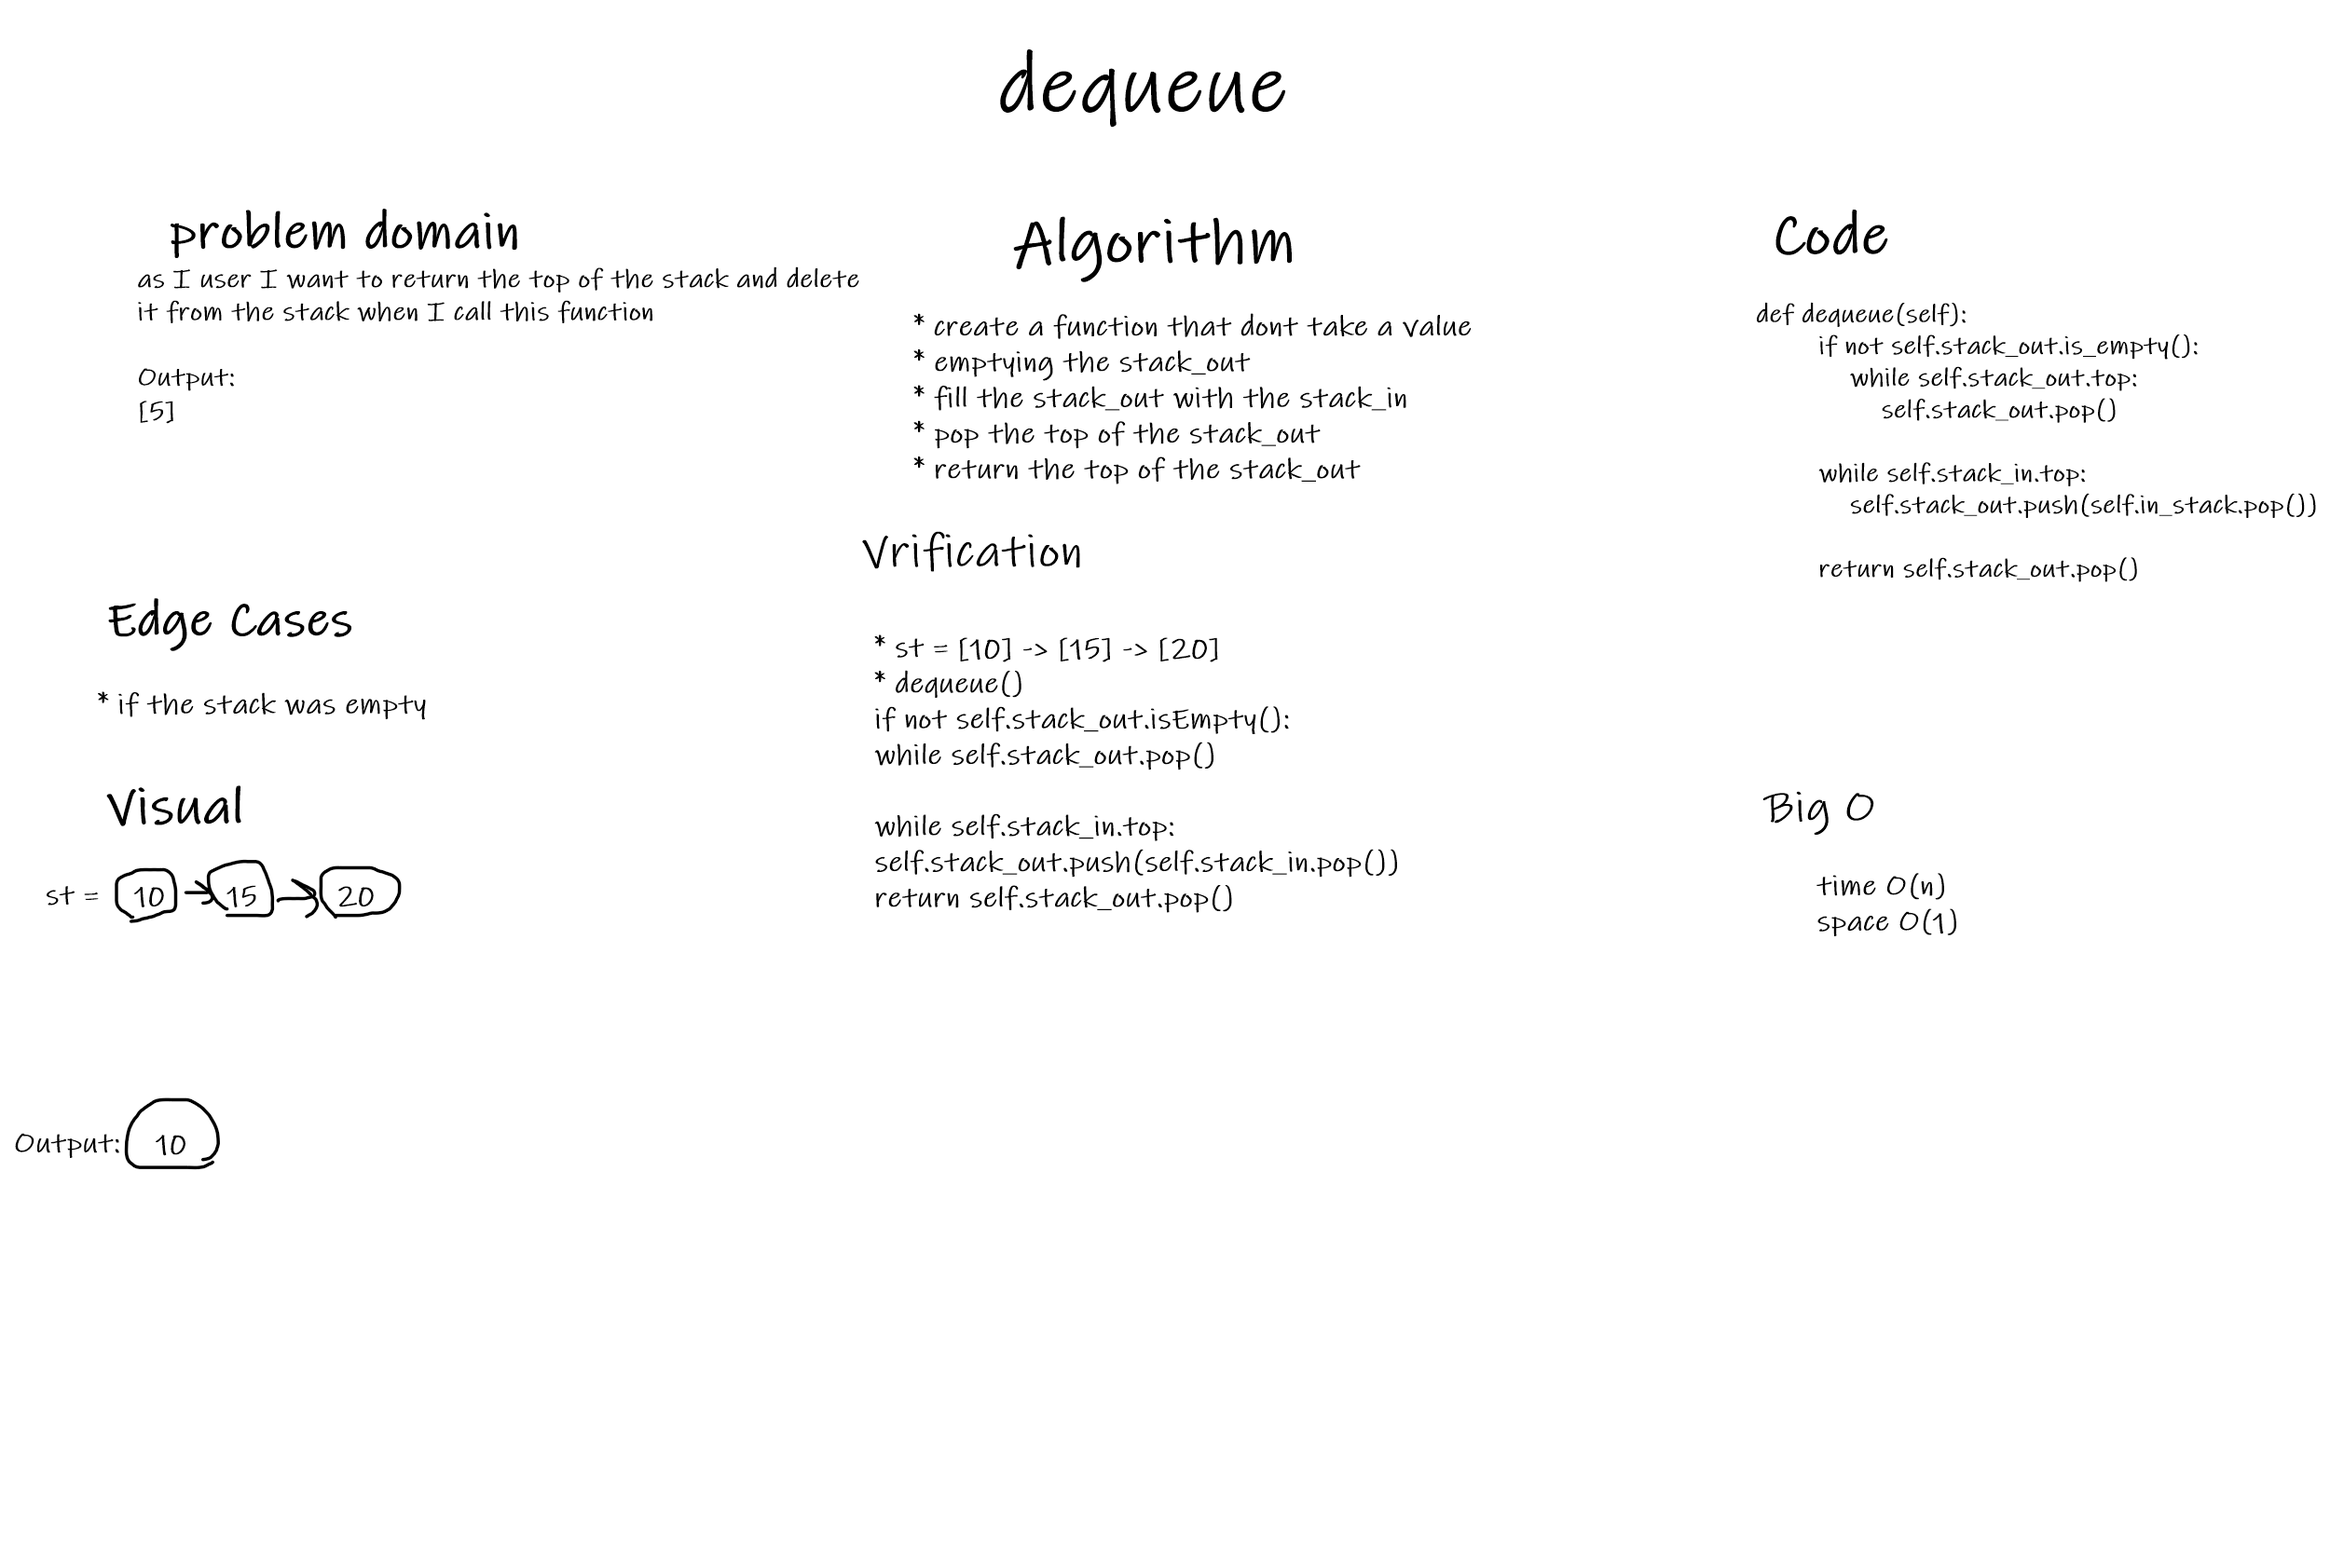
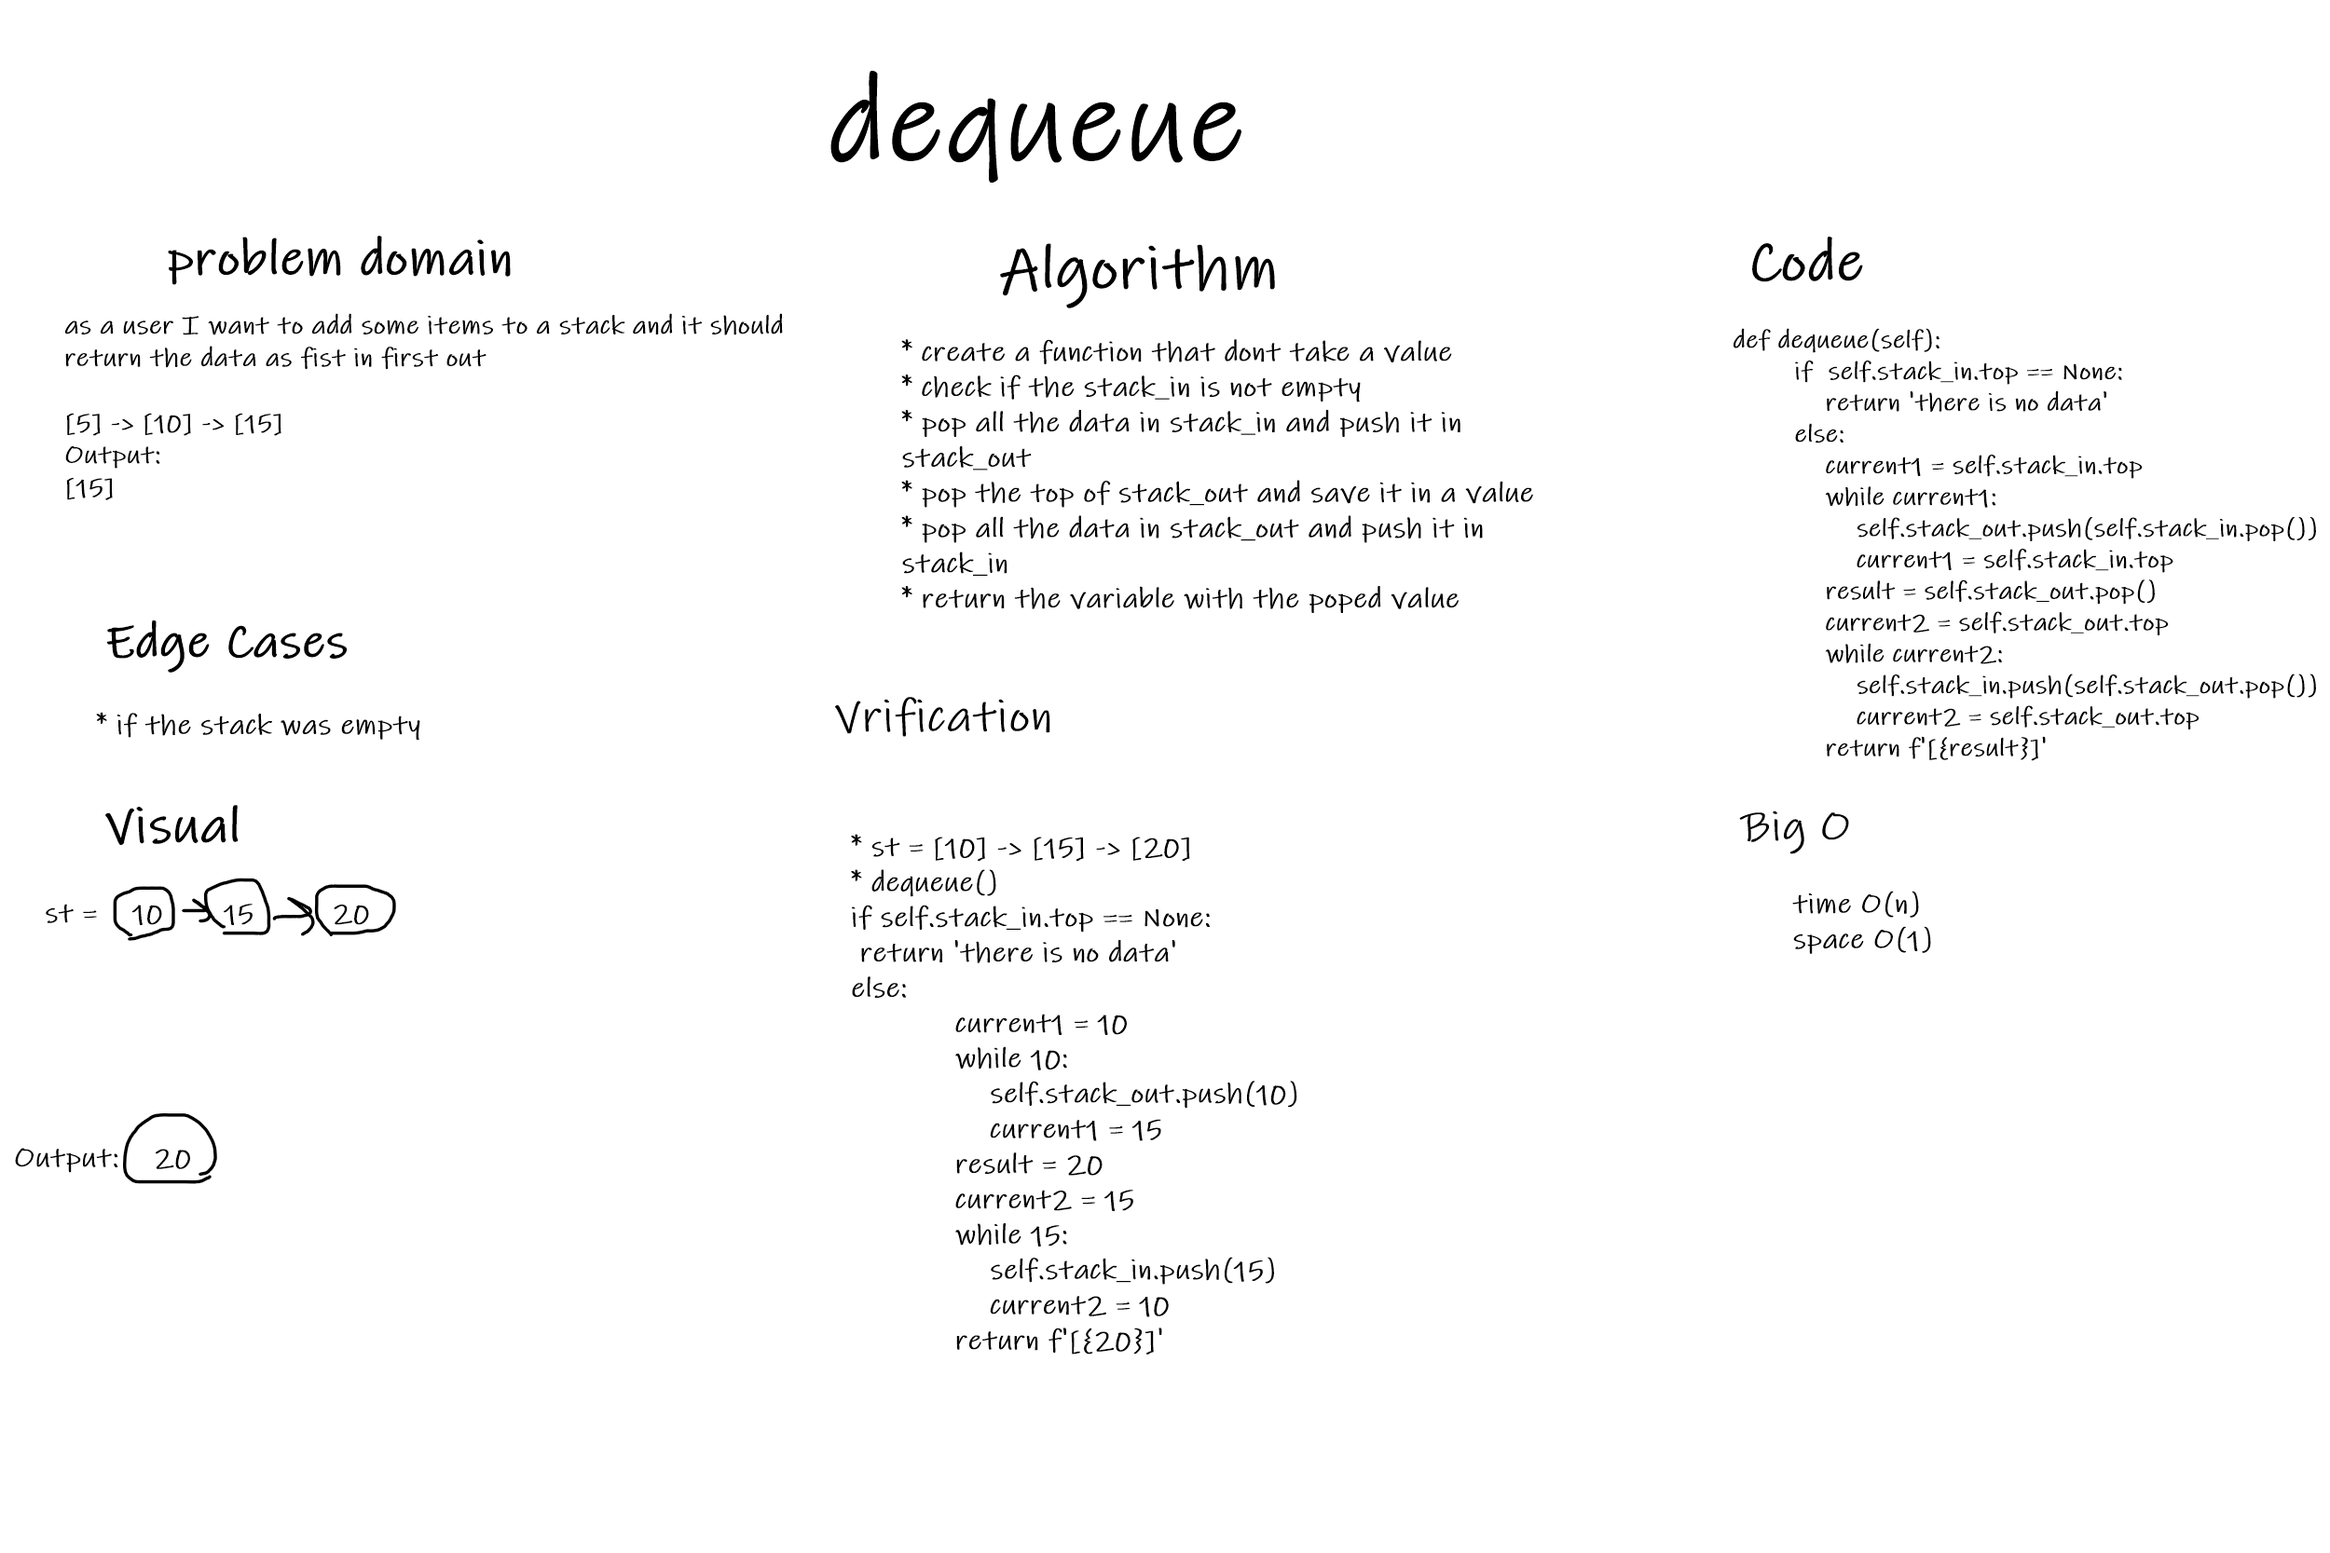
doing code-

diff --git a/challenges/queue_with_stacks/queue_with_stacks/queue_with_stacks.py b/challenges/queue_with_stacks/queue_with_stacks/queue_with_stacks.py
@@ -1,5 +1,5 @@
 import sys
-sys.path.append("//data-structures-and-algorithms/Data-Structures/stack-and-queue")
+sys.path.append("/home/ebrahimayyad11/data-structures-and-algorithms/Data-Structures/stack-and-queue")
 from stack_and_queue.stack_and_queue import Stack
 
 
@@ -7,28 +7,22 @@ class PseudoQueue:
     def __init__(self):
         self.stack_in = Stack()
         self.stack_out = Stack()
-        self.count = 0
 
     def enqueue(self,value):
         self.stack_in.push(value)
-        result = self.__str__  + '\n' + f'[{value}]' 
-        return result
 
 
     def dequeue(self):
-        if not self.stack_out.is_empty():
-            while self.stack_out.top:
-                self.stack_out.pop()
-
-        while self.stack_in.top:
-            self.stack_out.push(self.in_stack.pop())
-            
-        return self.stack_out.pop()
-
-    def __str__(self):
-        result = f'[{self.stack_in.top.value}]'
-        current =self.stack_in.top.next
-        while current:
-            result += f' -> [{current.value}]'
-            current = current.next
-        return result
+        if  self.stack_in.top == None:
+            return 'there is no data'
+        else: 
+            current1 = self.stack_in.top
+            while current1:
+                self.stack_out.push(self.stack_in.pop())
+                current1 = self.stack_in.top
+            result = self.stack_out.pop()
+            current2 = self.stack_out.top
+            while current2:
+                self.stack_in.push(self.stack_out.pop())
+                current2 = self.stack_out.top
+            return f'[{result}]'

diff --git a/challenges/queue_with_stacks/tests/test_queue_with_stacks.py b/challenges/queue_with_stacks/tests/test_queue_with_stacks.py
@@ -11,8 +11,9 @@ def test_enqueue():
     st.enqueue(20)
     st.enqueue(15)
     st.enqueue(10)
-    actual = st.enqueue(5)
-    excepted = '[5] -> [10] -> [15] -> [20]'  + '\n' + '[5]' 
+    st.enqueue(5)
+    actual = [st.dequeue(),st.dequeue(),st.dequeue(),st.dequeue()]
+    excepted = ['[20]','[15]','[10]','[5]'] 
     assert actual == excepted
 
 
@@ -23,7 +24,7 @@ def test_dequeue_1():
     st.enqueue(10)
     st.enqueue(5)
     actual = st.dequeue()
-    excepted = 5
+    excepted = '[20]'
     assert actual == excepted
 
 
@@ -33,5 +34,5 @@ def test_dequeue_2():
     st.enqueue(10)
     st.enqueue(5)
     actual = st.dequeue()
-    excepted = 10
+    excepted = '[15]'
     assert actual == excepted

diff --git a/challenges/queue_with_stacks/README.md b/challenges/queue_with_stacks/README.md
@@ -17,4 +17,4 @@ to write a dequeue and enqueue functions
 
 ## Solution
 ### enqueue: to add the new value to the top of the stack_in
-### dequeue: to pop the top if the stack_out
+### dequeue: to pop the top if the stack_out then return the top of stack_out then return the The rest data
